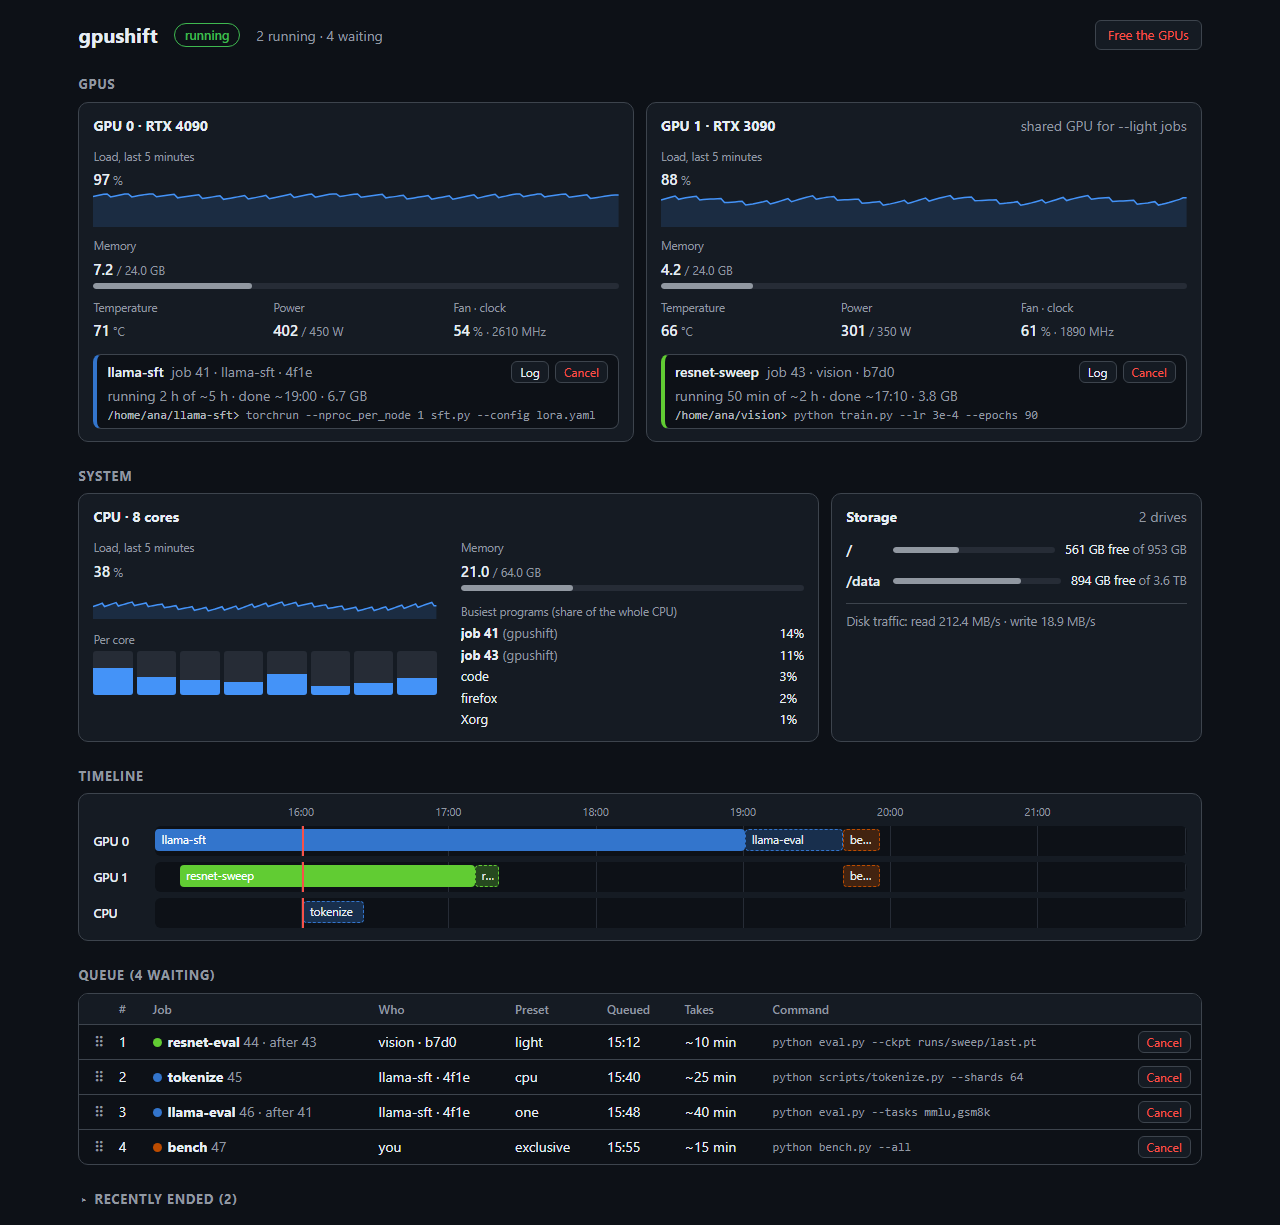
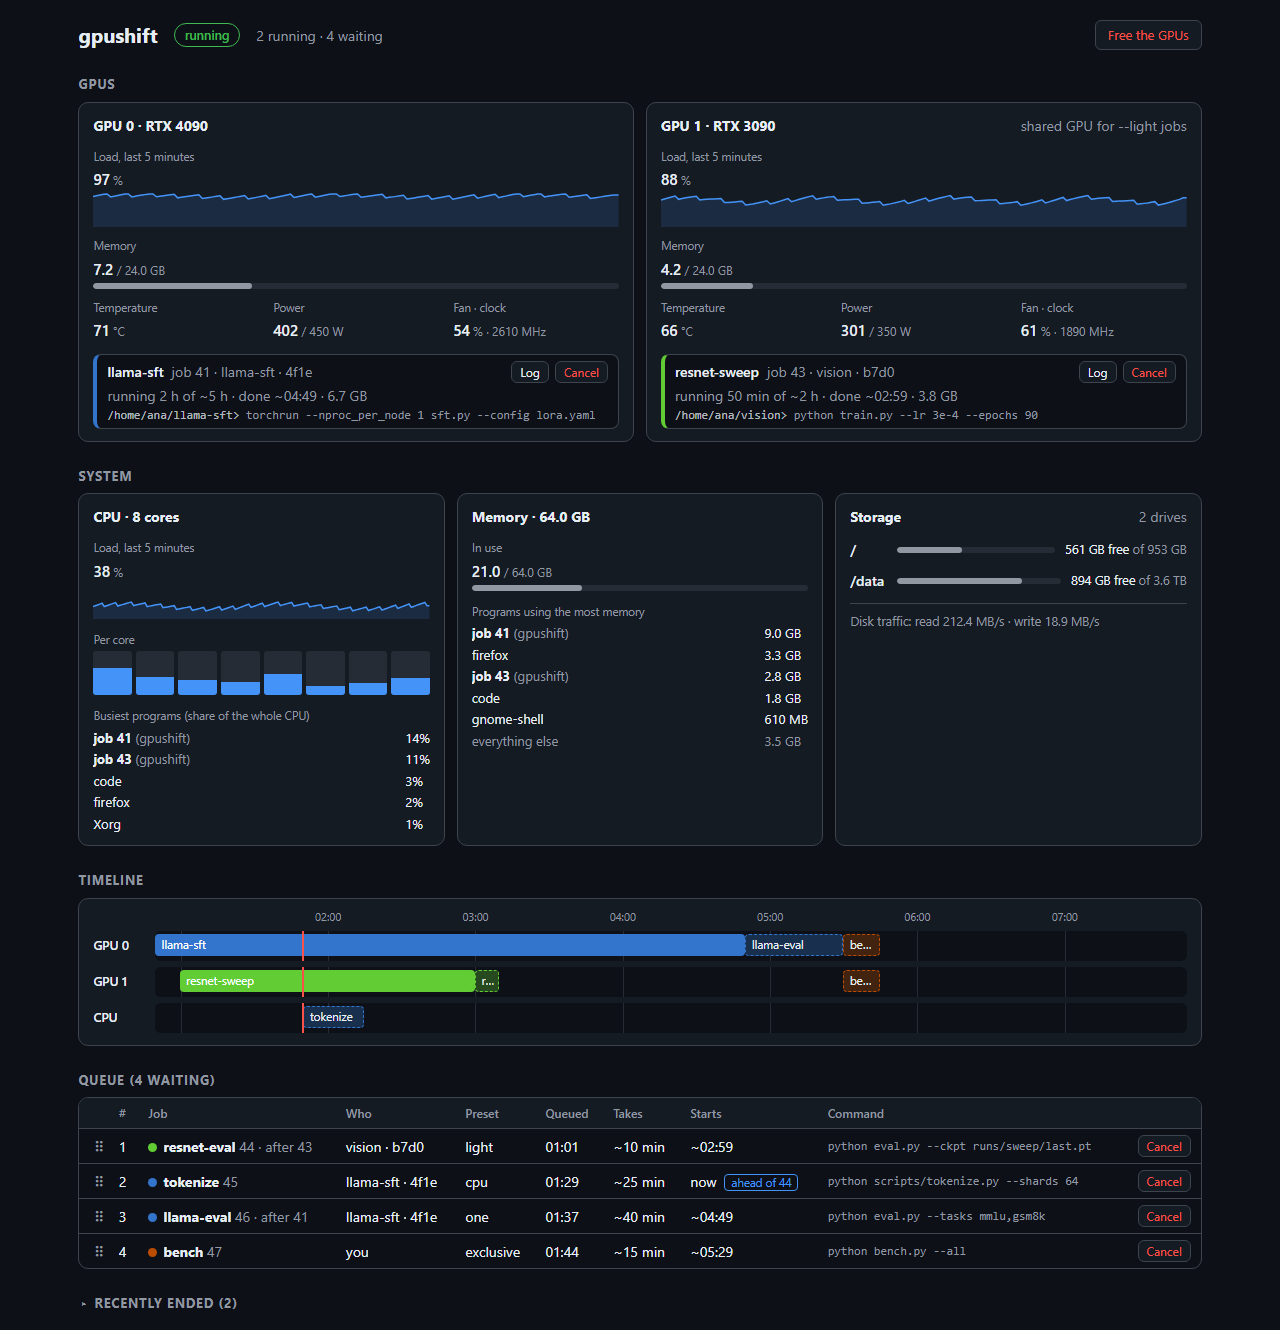
Give memory its own dashboard card; refresh the README screenshots

diff --git a/src/gpushift/ui.html b/src/gpushift/ui.html
@@ -38,10 +38,9 @@ button:focus-visible { outline: 2px solid var(--accent); outline-offset: 1px; }
 button.danger { color: var(--bad); }
 button.small { padding: 1px 8px; font-size: 12px; }
 .gpus { display: grid; grid-template-columns: repeat(auto-fit, minmax(min(340px, 100%), 1fr)); gap: 12px; }
-.system { display: grid; grid-template-columns: minmax(0, 2fr) minmax(0, 1fr); gap: 12px; }
-.cpu-cols { display: grid; grid-template-columns: repeat(2, minmax(0, 1fr)); gap: 12px 24px; }
-.cpu-cols > div { display: grid; gap: 12px; align-content: start; }
-@media (max-width: 900px) { .system, .cpu-cols { grid-template-columns: minmax(0, 1fr); } }
+.system { display: grid; grid-template-columns: repeat(3, minmax(0, 1fr)); gap: 12px; }
+.sys-col { display: grid; gap: 12px; align-content: start; }
+@media (max-width: 900px) { .system { grid-template-columns: minmax(0, 1fr); } }
 .drives { display: grid; gap: 10px; align-content: start; }
 .drive { display: grid; grid-template-columns: 2.6em minmax(0, 1fr) auto; gap: 2px 10px; align-items: center; }
 .drive .mount { font-weight: 600; font-variant-numeric: tabular-nums; }
@@ -284,24 +283,28 @@ function cpuCard(c, jobs, daemonUp) {
   const jobsHtml = jobs.map(jobCard).join("");
   if (!c) return `<div class="card"><div class="top"><b>CPU</b></div><div class="empty">${daemonUp ? "Measuring…" : "No reading: the gpushift daemon isn't running."}</div>${jobsHtml}</div>`;
   const busy = c.load_pct >= 90;
-  const memPct = (100 * c.mem_used_mb) / (c.mem_total_mb || 1);
   return `<div class="card"><div class="top"><b>CPU · ${c.cores_pct.length} cores</b>
       ${busy ? '<span style="color:var(--bad)">busy: programs may be slowed down</span>' : ""}</div>
-    <div class="cpu-cols">
-      <div>
-        <div class="stat"><span class="k">Load, last 5 minutes</span><span class="v" ${busy ? 'style="color:var(--bad)"' : ""}>${val(c.load_pct, "%")}</span>${spark(history.cpu || [])}</div>
-        <div class="stat"><span class="k">Per core</span><div class="cores">${c.cores_pct.map((p) =>
-          `<div class="bar" title="${Math.round(p)}%"><span style="height:${p}%;background:${loadColor(p)}"></span></div>`).join("")}</div></div>
-        <div class="stat"><span class="k">Busiest programs (share of the whole CPU)</span><div class="top5">${c.top.map((t) =>
-          `${progName(t.name)}<span>${t.pct.toFixed(0)}%</span>`).join("") || '<span class="muted">nothing busy</span>'}</div></div>
-      </div>
-      <div>
-        <div class="stat"><span class="k">Memory</span><span class="v">${gb(c.mem_used_mb)}<small> / ${gb(c.mem_total_mb)} GB</small></span>
-          <div class="bar"><span style="width:${memPct}%;background:${memPct >= 90 ? "var(--bad)" : "var(--muted)"}"></span></div></div>
-        ${c.top_mem ? `<div class="stat"><span class="k" title="Memory only that program holds.">Programs using the most memory</span><div class="top5">${c.top_mem.map((t) =>
-          `${progName(t.name)}<span>${memSize(t.mb)}</span>`).join("") || '<span class="muted">no reading</span>'}${memRest(c)}</div></div>` : ""}
-      </div>
+    <div class="sys-col">
+    <div class="stat"><span class="k">Load, last 5 minutes</span><span class="v" ${busy ? 'style="color:var(--bad)"' : ""}>${val(c.load_pct, "%")}</span>${spark(history.cpu || [])}</div>
+    <div class="stat"><span class="k">Per core</span><div class="cores">${c.cores_pct.map((p) =>
+      `<div class="bar" title="${Math.round(p)}%"><span style="height:${p}%;background:${loadColor(p)}"></span></div>`).join("")}</div></div>
+    <div class="stat"><span class="k">Busiest programs (share of the whole CPU)</span><div class="top5">${c.top.map((t) =>
+      `${progName(t.name)}<span>${t.pct.toFixed(0)}%</span>`).join("") || '<span class="muted">nothing busy</span>'}</div></div>
     </div>${jobsHtml}</div>`;
+}
+
+function memCard(c, daemonUp) {
+  if (!c) return `<div class="card"><div class="top"><b>Memory</b></div><div class="empty">${daemonUp ? "Measuring…" : "No reading: the gpushift daemon isn't running."}</div></div>`;
+  const memPct = (100 * c.mem_used_mb) / (c.mem_total_mb || 1), full = memPct >= 90;
+  return `<div class="card"><div class="top"><b>Memory · ${gb(c.mem_total_mb)} GB</b>
+      ${full ? '<span style="color:var(--bad)">almost full</span>' : ""}</div>
+    <div class="sys-col">
+    <div class="stat"><span class="k">In use</span><span class="v" ${full ? 'style="color:var(--bad)"' : ""}>${gb(c.mem_used_mb)}<small> / ${gb(c.mem_total_mb)} GB</small></span>
+      <div class="bar"><span style="width:${memPct}%;background:${full ? "var(--bad)" : "var(--muted)"}"></span></div></div>
+    ${c.top_mem ? `<div class="stat"><span class="k" title="Memory only that program holds.">Programs using the most memory</span><div class="top5">${c.top_mem.map((t) =>
+      `${progName(t.name)}<span>${memSize(t.mb)}</span>`).join("") || '<span class="muted">no reading</span>'}${memRest(c)}</div></div>` : ""}
+    </div></div>`;
 }
 
 function sample(s) {
@@ -467,7 +470,7 @@ function render(s) {
   let html = s.gpus.map((g) => gpuCard(g, g.jobs.map((id) => byId[id]).filter(Boolean))).join("");
   $("gpus").innerHTML = html;
   $("timeline").innerHTML = timelineView(s);
-  $("system").innerHTML = cpuCard(s.cpu, s.running.filter((j) => !j.gpus.length), s.daemon.running) + storageCard(s.cpu, s.daemon.running);
+  $("system").innerHTML = cpuCard(s.cpu, s.running.filter((j) => !j.gpus.length), s.daemon.running) + memCard(s.cpu, s.daemon.running) + storageCard(s.cpu, s.daemon.running);
 
   $("qhead").textContent = `Queue (${s.queue.length} waiting)`;
   const queue = [...s.queue].sort((a, b) => a.turn - b.turn);

diff --git a/demos/dashboard.py b/demos/dashboard.py
@@ -20,7 +20,7 @@ from pathlib import Path
 
 ROOT = Path(__file__).resolve().parent.parent
 PAGE = ROOT / "src" / "gpushift" / "ui.html"
-W, H = 1280, 1225
+W, H = 1280, 1330
 M, HR = 60, 3600
 
 
@@ -77,6 +77,9 @@ def status(now: float) -> dict:
         {"id": 46, "gpus": [0], "start": now + 3 * HR, "end": now + 3 * HR + 40 * M, "state": "queued"},
         {"id": 47, "gpus": [0, 1], "start": now + 3 * HR + 40 * M, "end": now + 3 * HR + 55 * M, "state": "queued"},
     ]
+    starts = {i["id"]: i["start"] for i in items}
+    for j in queue:
+        j["est_start"] = iso(starts[j["id"]])
     gpu = dict(power_limit_w=151, fan_pct=54, shared=False)
     return {
         "schema": 1, "mode": "normal", "mode_since": None,

diff --git a/CHANGELOG.md b/CHANGELOG.md
@@ -1,5 +1,10 @@
 # Changelog
 
+## Unreleased
+
+- Dashboard: memory has its own card between CPU and storage, instead of
+  sharing the CPU card.
+
 ## 0.1.17 (2026-11-27)
 
 - Dashboard: the CPU card lists the programs using the most memory, next to the
